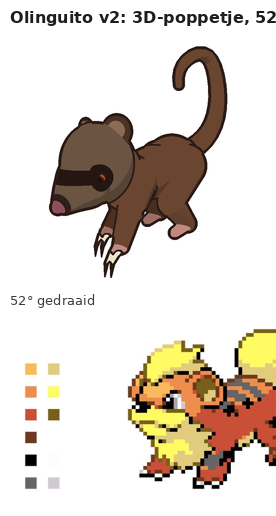
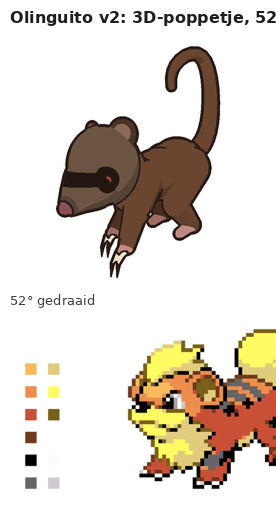
Olinguito v2: snoet grijsbruin (los van het masker), staart dichter op het lijf
Claude-Session: https://claude.ai/code/session_01FVyooZXgKs7PM2YEGi44tc

Changed region(s): [[0.1739, 0.062, 0.8406, 0.5581]]

diff --git a/docs/concept/ontwerp/olinguito_v2/scripts/pop3d.py b/docs/concept/ontwerp/olinguito_v2/scripts/pop3d.py
@@ -18,7 +18,7 @@ LINE = np.array((43, 27, 23), np.uint8)
 COL = {
     'fur': '#6A4630', 'head': '#6B5442', 'crown': '#6A4630', 'far': '#4C3121', 'paw': '#C08A80',
     'farpaw': '#9C6E66', 'claw': '#EDE3CC', 'mask': '#241712', 'eye': '#B9481C', 'pupil': '#1A0F0B',
-    'glint': '#FFFFFF', 'nose': '#8E4F58', 'muzzle': '#2E211A', 'ear': '#4A3324', 'earin': '#8A6C55',
+    'glint': '#FFFFFF', 'nose': '#8E4F58', 'muzzle': '#54443C', 'ear': '#4A3324', 'earin': '#8A6C55',
 }
 NOSHADE = {'muzzle', 'mask', 'eye', 'pupil', 'glint', 'nose', 'claw'}
 LINED = {'eye', 'nose', 'claw'}   # ook een lijn op de kleurgrens
@@ -76,8 +76,8 @@ def olinguito():
     m.ell((2, 6, 0), (34, 24, 23), 'fur', rot_z(math.radians(8)))
     m.ell((34, 12, 0), 25, 'fur')
     # staart: lang, omhoog en in een boog terug over de rug
-    tail = qb((52, 18, 0), (106, 26, 0), (100, 72, 0), 10)[:-1] + qb((100, 72, 0), (94, 110, 0), (64, 104, 0), 8)[:-1] \
-        + qb((64, 104, 0), (40, 98, 0), (44, 80, 0), 6)
+    tail = qb((52, 18, 0), (88, 22, 0), (84, 74, 0), 10)[:-1] + qb((84, 74, 0), (80, 116, 0), (48, 110, 0), 8)[:-1] \
+        + qb((48, 110, 0), (22, 104, 0), (26, 84, 0), 6)
     n = len(tail)
     m.chain([(x, y, z, 10.5 - 5 * i / (n - 1)) for i, (x, y, z) in enumerate(tail)], 'fur')
     # kop: nek, ronde schedel, snuit naar voren-omlaag (vorm van referentie_kop.png), groter dan echt (Pokémon)
